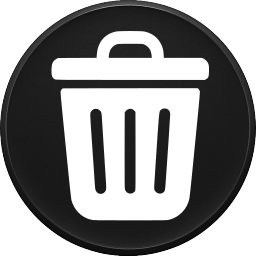
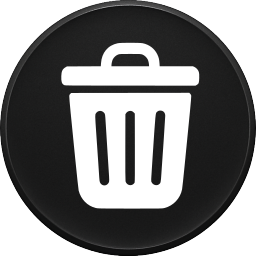
safety

diff --git a/style.css b/style.css
@@ -1120,71 +1120,85 @@ body.advanced-controls-disabled [data-adv] {
 .toy-spawner-toggle,
 .toy-spawner-trash,
 .toy-spawner-help {
+  --toy-spawner-icon: none;
+  --toy-spawner-bg: rgba(10, 15, 25, 0.92);
   width: var(--toy-spawner-button-size);
   height: var(--toy-spawner-button-size);
-  padding: 0;
-  border-radius: 16px;
+  padding: 6px;
+  border-radius: 999px;
+  border: none;
   display: grid;
-        place-items: center;
-  font-size: 42px;  font-weight: 600;
-  line-height: 1;
+  place-items: center;
+  position: relative;
+  overflow: hidden;
+  background: radial-gradient(120% 120% at 50% 38%, rgba(255, 255, 255, 0.12) 0%, rgba(255, 255, 255, 0) 46%), var(--toy-spawner-bg);
   box-shadow: inset 0 1px 0 rgba(255, 255, 255, 0.08), 0 10px 28px rgba(0, 0, 0, 0.45);
-  transition: transform 0.15s ease, background 0.15s ease, border-color 0.15s ease, box-shadow 0.25s ease, opacity 0.2s ease;
+  transition: transform 0.16s ease, box-shadow 0.25s ease, filter 0.2s ease, opacity 0.2s ease;
 }
 
-.toy-spawner-toggle span {
-  pointer-events: none;
-  margin-top: -2px;
+.toy-spawner-icon {
+  width: 100%;
+  height: 100%;
+  background: var(--toy-spawner-icon) center/contain no-repeat;
+  display: block;
+  border-radius: inherit;
+  filter: drop-shadow(0 8px 12px rgba(0, 0, 0, 0.38));
+  transition: transform 0.16s ease, filter 0.16s ease;
 }
 
+.toy-spawner-toggle {
+  --toy-spawner-icon: url('/assets/UI/T_ButtonAddMusic.png');
+  --toy-spawner-bg: rgba(47, 102, 179, 0.85);
+}
 .toy-spawner-help {
-  font-size: 42px;
-  font-weight: 600;
-  color: rgba(226, 233, 255, 0.9);
-  border: 1px solid rgba(95, 179, 255, 0.32);
-  background: rgba(17, 26, 36, 0.92);
-  text-shadow: 0 2px 6px rgba(0, 0, 0, 0.45);
+  --toy-spawner-icon: url('/assets/UI/T_ButtonHelp.png');
+  --toy-spawner-bg: rgba(43, 133, 140, 0.88);
+}
+.toy-spawner-trash {
+  --toy-spawner-icon: url('/assets/UI/T_ButtonTrash.png');
+  --toy-spawner-bg: rgba(159, 44, 44, 0.85);
+  opacity: 0.75;
 }
 
-.toy-spawner-help:hover {
-  color: #fff;
-  border-color: rgba(95, 179, 255, 0.6);
+.toy-spawner-toggle:hover,
+.toy-spawner-help:hover,
+.toy-spawner-trash:hover {
+  transform: translateY(-1px) scale(1.02);
+  box-shadow: inset 0 1px 0 rgba(255, 255, 255, 0.12), 0 14px 32px rgba(0, 0, 0, 0.55);
+}
+
+.toy-spawner-toggle:hover .toy-spawner-icon,
+.toy-spawner-help:hover .toy-spawner-icon,
+.toy-spawner-trash:hover .toy-spawner-icon {
+  filter: drop-shadow(0 10px 16px rgba(0, 0, 0, 0.5)) brightness(1.04);
 }
 
 .toy-spawner-help.is-active,
 .toy-spawner-help[aria-pressed='true'] {
-  color: #fff;
-  border-color: rgba(95, 179, 255, 0.9);
-  background: rgba(95, 179, 255, 0.24);
-  box-shadow: 0 0 0 3px rgba(95, 179, 255, 0.2), 0 20px 45px rgba(0, 0, 0, 0.55);
-}
-
-.toy-spawner-trash {
-  opacity: 0.55;
-  border: 1px solid rgba(95, 179, 255, 0.32);
-  background: rgba(17, 26, 36, 0.92);
+  box-shadow: 0 0 0 3px rgba(95, 179, 255, 0.35), 0 18px 40px rgba(0, 0, 0, 0.55);
+  filter: saturate(1.1) brightness(1.05);
 }
 
 .toy-spawner-dock.panel-drag-active .toy-spawner-trash {
   opacity: 1;
 }
 
-.toy-spawner-trash svg {
-  width: 26px;
-  height: 26px;
-  fill: rgba(238, 245, 255, 0.78);
-  transition: transform 0.18s ease, fill 0.18s ease;
-}
-
 .toy-spawner-trash[data-hover='true'] {
-  border-color: rgba(248, 113, 113, 0.85);
-  background: rgba(248, 113, 113, 0.18);
-  box-shadow: 0 0 0 3px rgba(248, 113, 113, 0.22), 0 20px 45px rgba(0, 0, 0, 0.55);
+  transform: translateY(-1px) scale(1.05);
+  box-shadow: 0 0 0 4px rgba(248, 113, 113, 0.28), 0 20px 45px rgba(0, 0, 0, 0.55);
+  filter: saturate(1.05);
 }
 
-.toy-spawner-trash[data-hover='true'] svg {
+.toy-spawner-trash[data-hover='true'] .toy-spawner-icon {
   transform: translateY(-1px);
-  fill: #fda4af;
+  filter: drop-shadow(0 10px 16px rgba(248, 113, 113, 0.45)) brightness(1.05);
+}
+
+.toy-spawner-toggle:focus-visible,
+.toy-spawner-trash:focus-visible,
+.toy-spawner-help:focus-visible {
+  outline: 2px solid var(--accent);
+  outline-offset: 4px;
 }
 
 .toy-spawner-menu {

diff --git a/src/toy-spawner.js b/src/toy-spawner.js
@@ -22,6 +22,8 @@ const state = {
   panelDrag: null,
 };
 
+const BUTTON_ICON_HTML = '<span aria-hidden="true" class="toy-spawner-icon"></span>';
+
 function updateHelpToggleUI(nextState) {
   if (typeof nextState === 'boolean') {
     state.helpActive = nextState;
@@ -45,7 +47,7 @@ function ensureDock() {
   trash.title = 'Delete Toy';
   trash.dataset.helpLabel = 'Drag a toy here to delete it';
   trash.dataset.helpPosition = 'left';
-  trash.innerHTML = `<svg viewBox="0 0 24 24"><path d="M9,3V4H4V6H5V19C5,20.1 5.9,21 7,21H17C18.1,21 19,20.1 19,19V6H20V4H15V3H9M7,6H17V19H7V6M9,8V17H11V8H9M13,8V17H15V8H13Z" /></svg>`;
+  trash.innerHTML = BUTTON_ICON_HTML;
 
   const toggle = document.createElement('button');
   toggle.type = 'button';
@@ -54,7 +56,7 @@ function ensureDock() {
   toggle.title = 'Create Toy';
   toggle.dataset.helpLabel = 'Open the Add Toy menu';
   toggle.dataset.helpPosition = 'left';
-  toggle.innerHTML = '<span aria-hidden="true">+</span>';
+  toggle.innerHTML = BUTTON_ICON_HTML;
 
   const help = document.createElement('button');
   help.type = 'button';
@@ -63,7 +65,7 @@ function ensureDock() {
   help.title = 'Help';
   help.dataset.helpLabel = 'Toggle help labels';
   help.dataset.helpPosition = 'left';
-  help.innerHTML = '<span aria-hidden="true">?</span>';
+  help.innerHTML = BUTTON_ICON_HTML;
 
   const menu = document.createElement('div');
   menu.className = 'toy-spawner-menu';

diff --git a/src/tutorial.css b/src/tutorial.css
@@ -226,14 +226,14 @@ body.tutorial-active #topbar .tutorial-play-hidden {
 .goal-reward-icons .toy-spawner-toggle.is-preview {
   width: 56px;
   height: 56px;
-  border-radius: 12px;       /* matches bevelled square feel */
-  font-size: 36px;           /* big '+' like the real button */
+  padding: 6px;
+  border-radius: 999px;
   display: grid;
   place-items: center;
   pointer-events: none;
 }
-.goal-reward-icons .toy-spawner-toggle.is-preview > span[aria-hidden="true"] {
-  line-height: 1;
+.goal-reward-icons .toy-spawner-toggle.is-preview .toy-spawner-icon {
+  filter: drop-shadow(0 6px 10px rgba(0, 0, 0, 0.28));
 }
 
 /* Quick flash accent (class toggled for ~320ms) */

diff --git a/src/tutorial.js b/src/tutorial.js
@@ -2172,7 +2172,7 @@ let hasDetectedLine = false;
             btn.type = 'button';
             btn.className = 'toy-spawner-toggle toy-btn is-preview';
             btn.setAttribute('aria-label', icon.label || 'Add Toy');
-            btn.innerHTML = '<span aria-hidden="true">+</span>';
+            btn.innerHTML = '<span aria-hidden="true" class="toy-spawner-icon"></span>';
             btn.style.pointerEvents = 'none';
             wrapper.appendChild(btn);
             rewardIcons.appendChild(wrapper);
